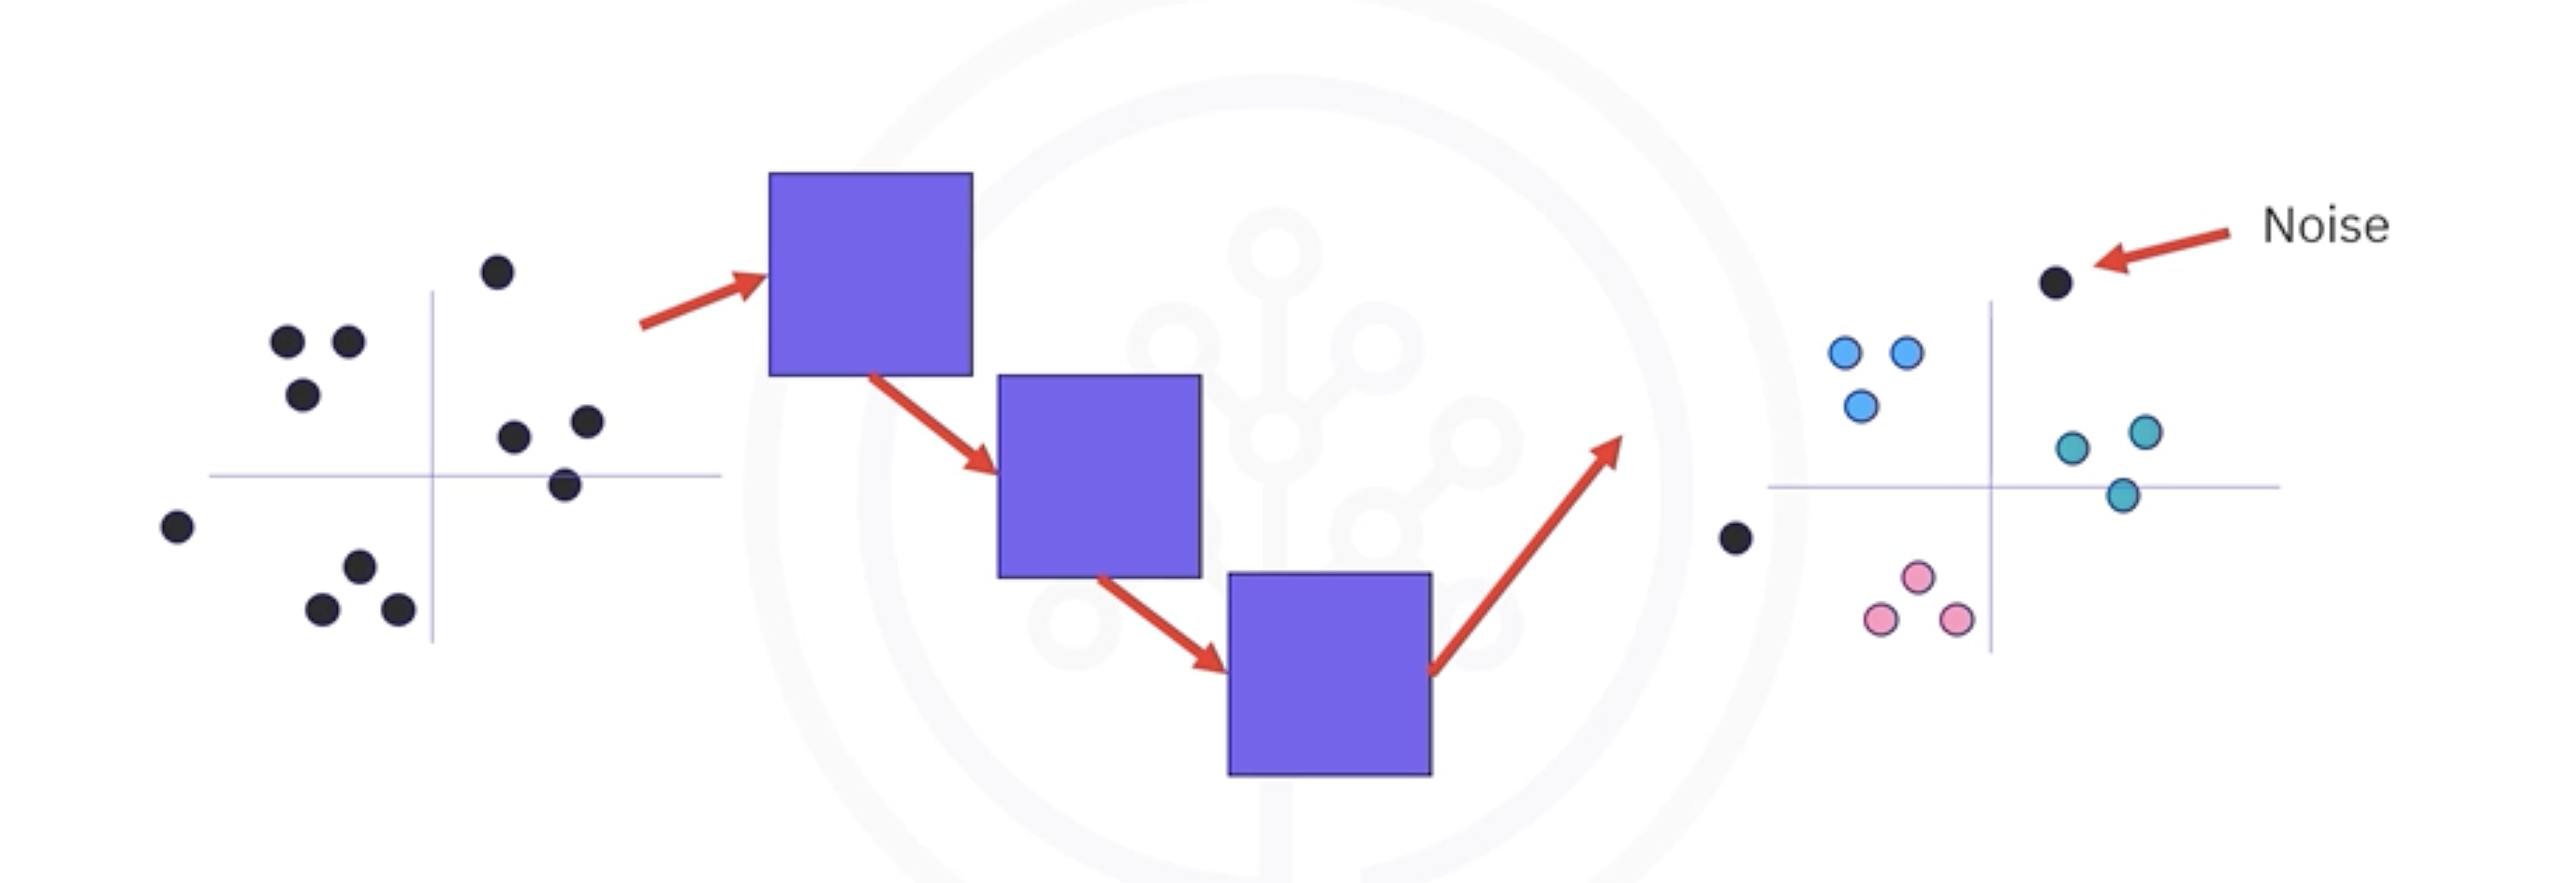
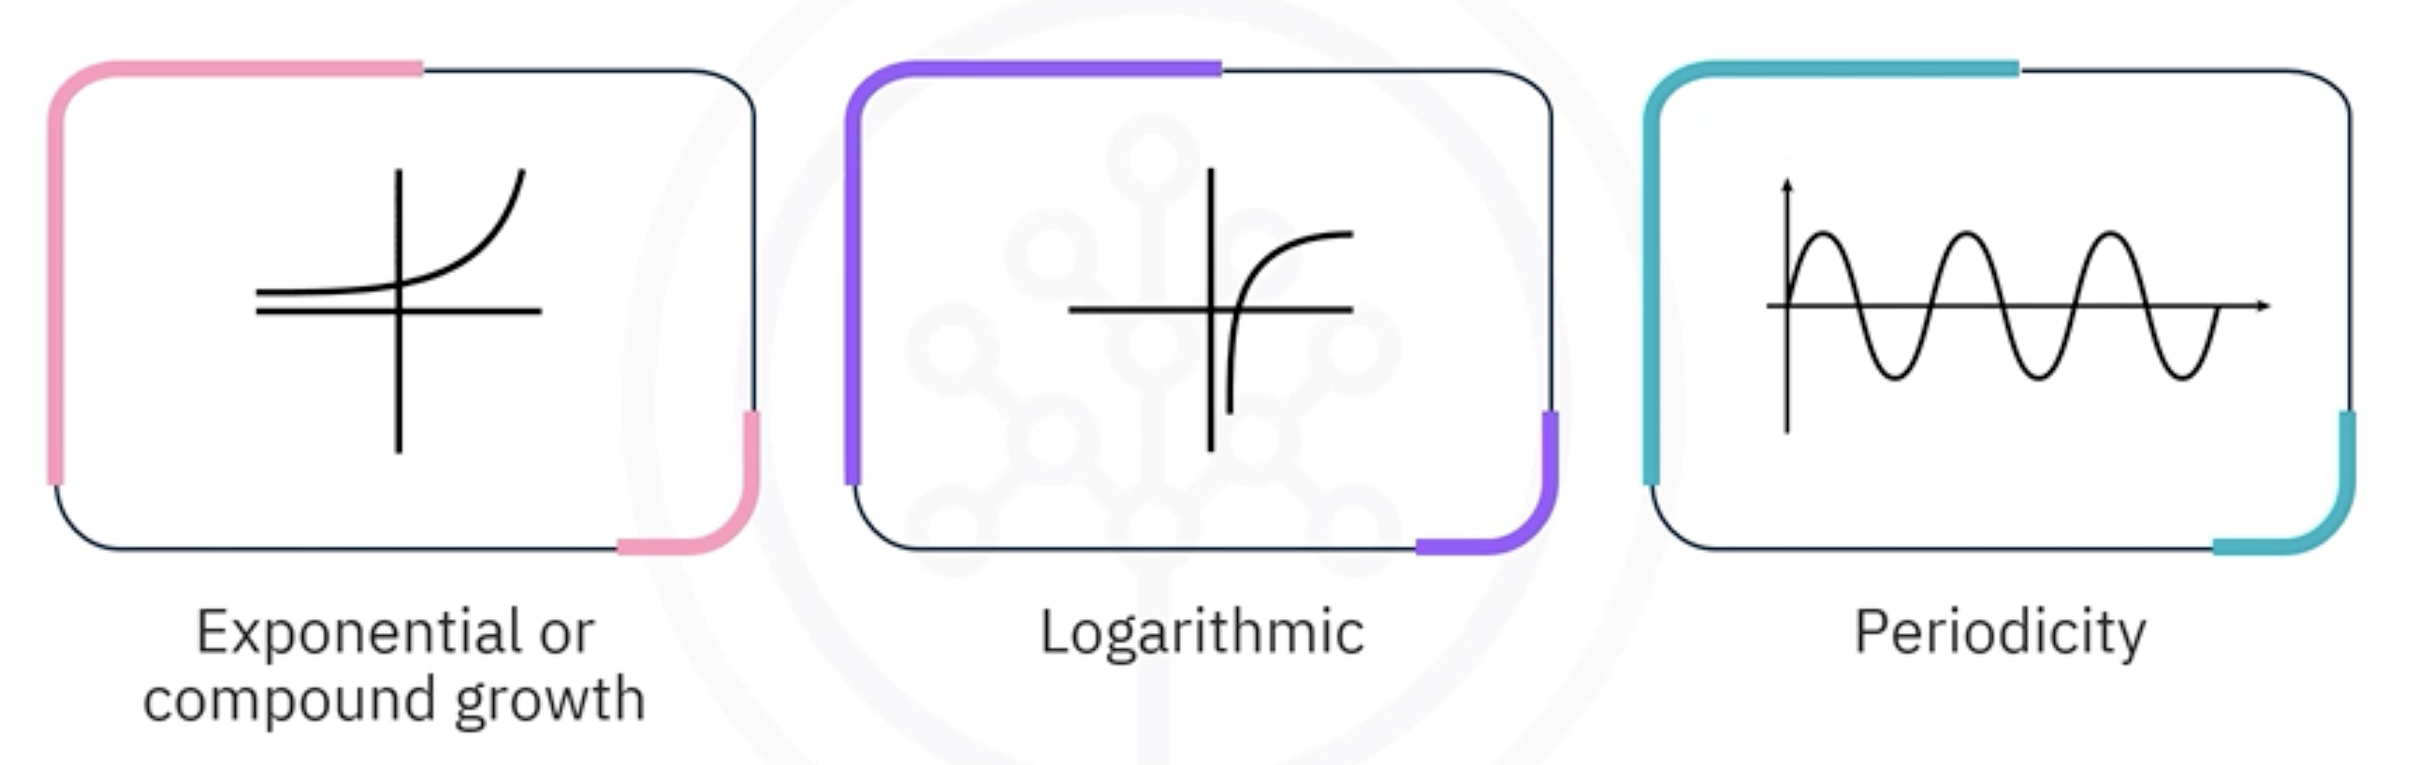
finished 01_non_linear_regression_theory

diff --git a/03_specializations/02_machine_learning_with_python/03_non-linear_and_ensemble_models/01_non-linear_regression_theory.md b/03_specializations/02_machine_learning_with_python/03_non-linear_and_ensemble_models/01_non-linear_regression_theory.md
@@ -6,7 +6,7 @@ We've established that Linear Regression is a powerful tool for modeling straigh
 
 **Non-linear Regression** is the broad category of techniques used to model these more complex, curved relationships between features and a target variable. Instead of fitting a single best-fit line, the goal is to fit a curve that accurately captures the nuances of the data.
 
-<img src="./images/1401.png" alt="A non-linear relationship" width="600"/>
+<img src="./images/0101.png" alt="A non-linear relationship" width="600"/>
 
 ## 2. Common Approaches to Non-linear Regression
 
